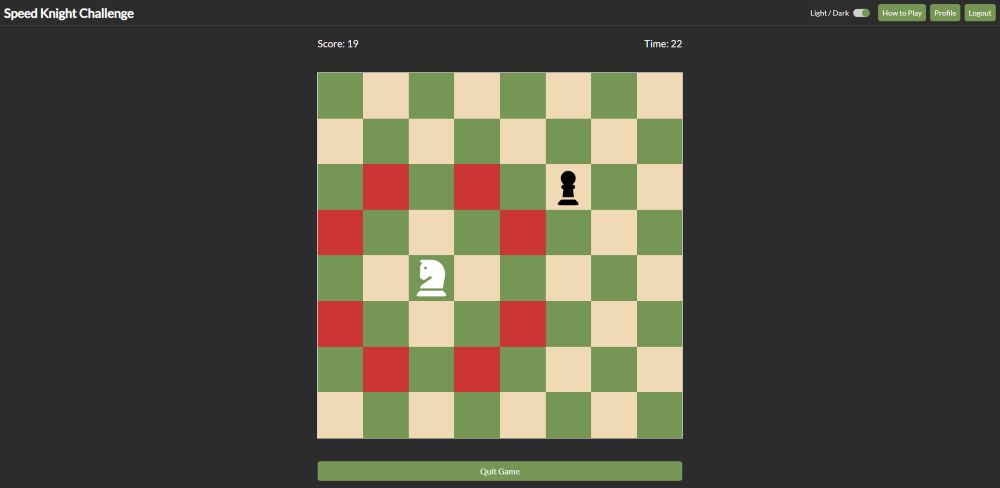
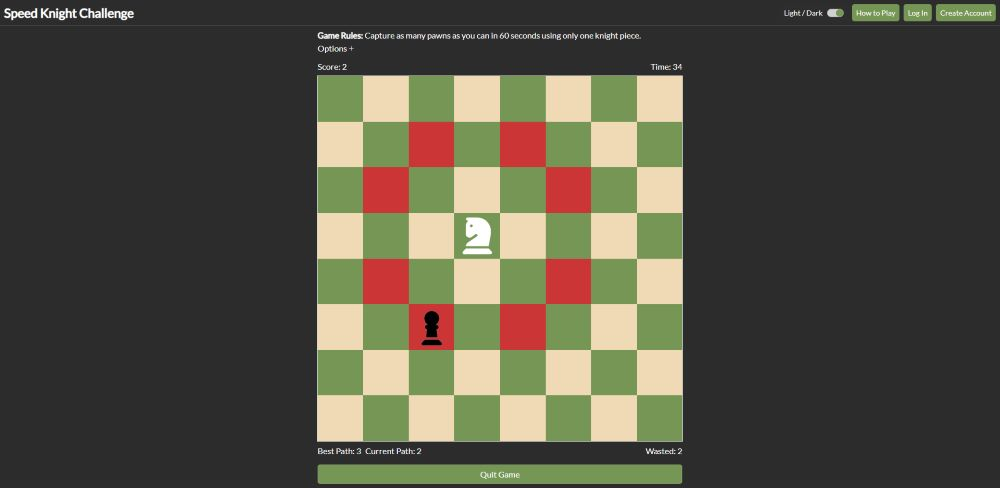
updated knight images

diff --git a/src/sections/Projects/index.tsx b/src/sections/Projects/index.tsx
@@ -219,7 +219,7 @@ const ProjectsSection = () => {
                             <ul className={`${className}_list`}>
                                 <li className={`${className}_text`}>Serverless AWS Architecture using Amazon Cognito for user authentication, DynamoDB for storage, and API Gateway integrated with AWS Lambda for REST API</li>
                                 <li className={`${className}_text`}>Record your games stats to track your improvement and compare to global community scores</li>
-                                <li className={`${className}_text`}>Clean and simple design with light/dark mode toggle for improved UI experience </li>
+                                <li className={`${className}_text`}>Breadth-first search algorithm calculates knight's shortest path to provide players with a post-game efficiency score</li>
                             </ul>
                         </div>
                         <div className={`${className}_textContainer`}>
